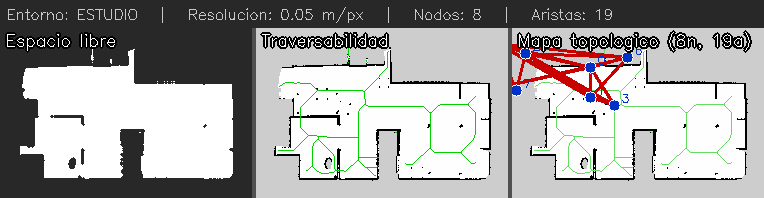
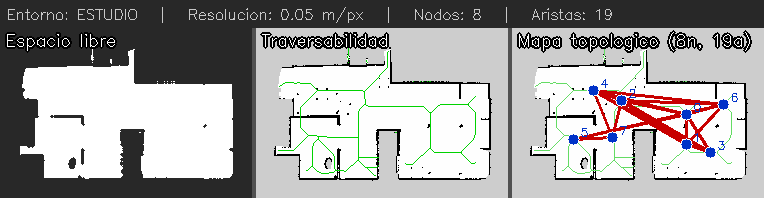
fix(memoria): correccion del recorte de paneles y ajuste dinamico del texto

Changed region(s): [[0.6623, 0.2121, 0.9634, 0.7879]]

diff --git a/navegacion_topologica/scripts/generar_figuras_memoria.py b/navegacion_topologica/scripts/generar_figuras_memoria.py
@@ -43,10 +43,11 @@ def recortar(img, bbox):
     return img[y0:y1, x0:x1]
 
 
-def dibujar_grafo(mapper, node_offset=(0, 0)):
+def dibujar_grafo(mapper):
     """Panel 3: mapa original + esqueleto + grafo."""
-    ox, oy = node_offset
+    # Quitamos el offset, dibujamos directamente sobre la imagen original
     vis = cv2.cvtColor(mapper.map_image, cv2.COLOR_GRAY2BGR)
+    
     # Esqueleto en verde claro
     skel_mask = mapper.thin_skeleton > 0
     vis[skel_mask] = [100, 220, 100]
@@ -55,14 +56,16 @@ def dibujar_grafo(mapper, node_offset=(0, 0)):
     for edge in mapper.edges:
         n1 = mapper.nodes[edge['from_node']]
         n2 = mapper.nodes[edge['to_node']]
-        x1, y1 = n1['x_pixel'] - ox, n1['y_pixel'] - oy
-        x2, y2 = n2['x_pixel'] - ox, n2['y_pixel'] - oy
+        # Usamos las coordenadas exactas del nodo
+        x1, y1 = n1['x_pixel'], n1['y_pixel']
+        x2, y2 = n2['x_pixel'], n2['y_pixel']
         cv2.line(vis, (x1, y1), (x2, y2), (0, 0, 200), 2)
 
     # Nodos en azul con ID
     for node in mapper.nodes:
-        x = node['x_pixel'] - ox
-        y = node['y_pixel'] - oy
+        # Usamos las coordenadas exactas del nodo
+        x = node['x_pixel']
+        y = node['y_pixel']
         cv2.circle(vis, (x, y), 6, (200, 50, 0), -1)
         cv2.circle(vis, (x, y), 6, (255, 255, 255), 1)
         cv2.putText(vis, str(node['id']), (x + 7, y - 3),
@@ -100,16 +103,31 @@ def procesar(entorno):
     p2 = recortar(p2, bbox)
 
     # --- Panel 3: mapa topologico ---
-    p3 = dibujar_grafo(mapper, node_offset=(x0, y0))
+    p3 = dibujar_grafo(mapper)
     p3 = recortar(p3, bbox)
 
-    # --- Etiquetas ---
+# --- Etiquetas ---
     def label(img, text):
         out = img.copy()
-        cv2.putText(out, text, (5, 18),
-                    cv2.FONT_HERSHEY_SIMPLEX, 0.55, (0, 0, 0), 3)
-        cv2.putText(out, text, (5, 18),
-                    cv2.FONT_HERSHEY_SIMPLEX, 0.55, (255, 255, 255), 1)
+        font = cv2.FONT_HERSHEY_SIMPLEX
+        escala = 0.55
+        grosor_blanco = 1
+        
+        # 1. Calcular en píxeles cuánto va a ocupar el texto
+        (ancho_texto, alto_texto), baseline = cv2.getTextSize(text, font, escala, grosor_blanco)
+        
+        # 2. Si el texto es más ancho que la imagen, añadimos padding a la derecha
+        margen = 10
+        if ancho_texto + margen > out.shape[1]:
+            extra_w = (ancho_texto + margen) - out.shape[1]
+            # Rellenamos con un gris claro (similar a la zona desconocida del mapa)
+            out = cv2.copyMakeBorder(out, 0, 0, 0, extra_w, 
+                                     cv2.BORDER_CONSTANT, value=(205, 205, 205))
+            
+        # 3. Escribir el texto (borde negro para contraste y relleno blanco)
+        cv2.putText(out, text, (5, 18), font, escala, (0, 0, 0), 3)
+        cv2.putText(out, text, (5, 18), font, escala, (255, 255, 255), grosor_blanco)
+        
         return out
 
     p1 = label(p1, 'Espacio libre')
@@ -130,15 +148,33 @@ def procesar(entorno):
     sep = np.full((th, 4, 3), 80, dtype=np.uint8)
     panel = np.concatenate([p1, sep, p2, sep, p3], axis=1)
 
-    # Titulo del entorno
+# --- Titulo del entorno ---
     title_h = 28
-    title = np.full((title_h, panel.shape[1], 3), 40, dtype=np.uint8)
     txt = f'Entorno: {entorno.upper()}   |   '
     res = mapper.graph['metadata']['resolution_m_per_pixel']
     txt += f'Resolucion: {res} m/px   |   '
     txt += f'Nodos: {len(mapper.nodes)}   |   Aristas: {len(mapper.edges)}'
-    cv2.putText(title, txt, (6, 19),
-                cv2.FONT_HERSHEY_SIMPLEX, 0.48, (200, 200, 200), 1)
+
+    font_title = cv2.FONT_HERSHEY_SIMPLEX
+    scale_title = 0.48
+    thick_title = 1
+
+    # 1. Calculamos el ancho real del texto del encabezado
+    (ancho_txt, alto_txt), _ = cv2.getTextSize(txt, font_title, scale_title, thick_title)
+    margen_titulo = 15
+
+    # 2. Si el texto es más ancho que la suma de los 3 paneles, ensanchamos el panel base
+    if ancho_txt + margen_titulo > panel.shape[1]:
+        extra_w = (ancho_txt + margen_titulo) - panel.shape[1]
+        # Añadimos un borde a la derecha (puedes cambiar el color si prefieres que no sea gris)
+        panel = cv2.copyMakeBorder(panel, 0, 0, 0, extra_w, 
+                                   cv2.BORDER_CONSTANT, value=(205, 205, 205))
+
+    # 3. Creamos la barra del título con el ancho final del panel y escribimos el texto
+    title = np.full((title_h, panel.shape[1], 3), 40, dtype=np.uint8)
+    cv2.putText(title, txt, (6, 19), font_title, scale_title, (200, 200, 200), thick_title)
+    
+    # 4. Concatenamos el título arriba del panel
     panel = np.concatenate([title, panel], axis=0)
 
     out_path = os.path.join(MEM_DIR, f'{entorno}_pipeline.png')
@@ -153,7 +189,6 @@ def procesar(entorno):
         'edges': mapper.edges,
         'meta': mapper.graph['metadata'],
     }
-
 
 def tabla_memoria(resultados):
     print('\n' + '=' * 70)
